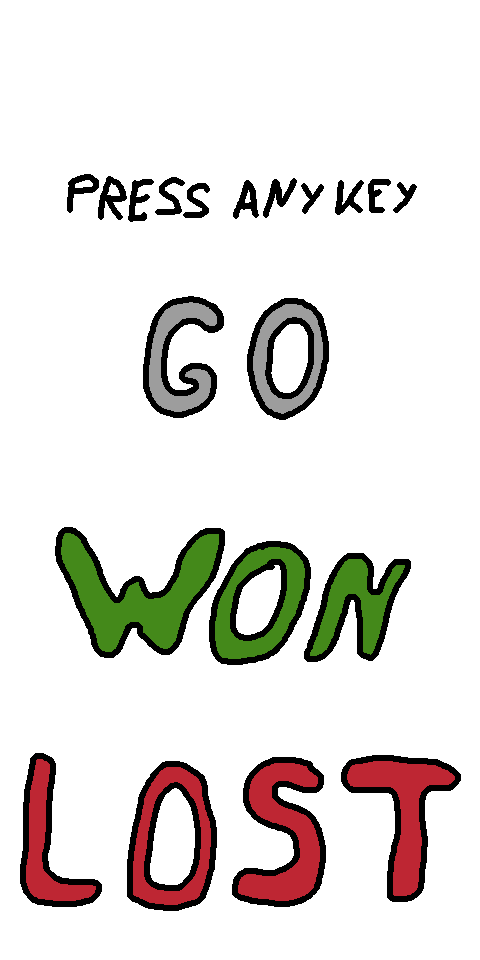
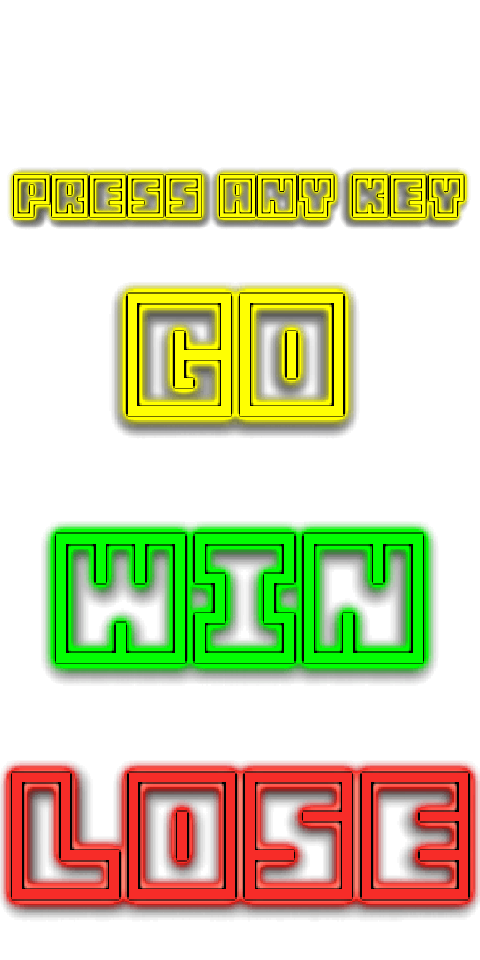
Recreated overlay texts like 'WIN' and 'LOST'.

diff --git a/gppcc10/doku/verlauf.md b/gppcc10/doku/verlauf.md
@@ -64,3 +64,4 @@
 |        | Overlay-Skizzen für Spielstart, Ende (gewonnen) und Ende (verloren) erstellt | 1.00h | 2.10h |
 | 12.05. | Start- und Zielkacheln werden korrekt angezeigt | 0.75h | |
 |        | Spieler "ausrollen" lassen | 0.50h | 1.25h |
+| 14.05. | Overlay-Schriftzüge (Win, Lost,...) neu erstellt | 1.00h | 1.00h |
